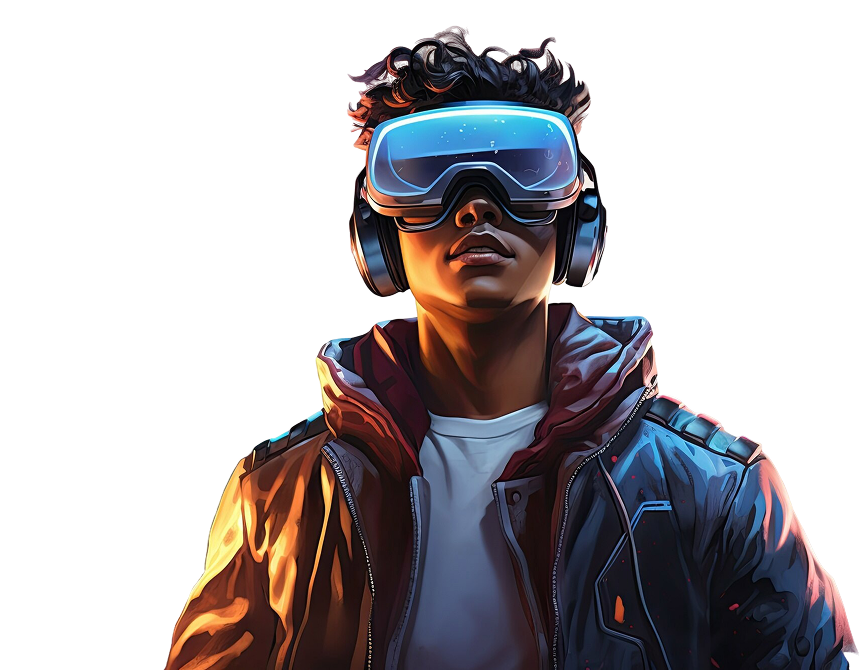
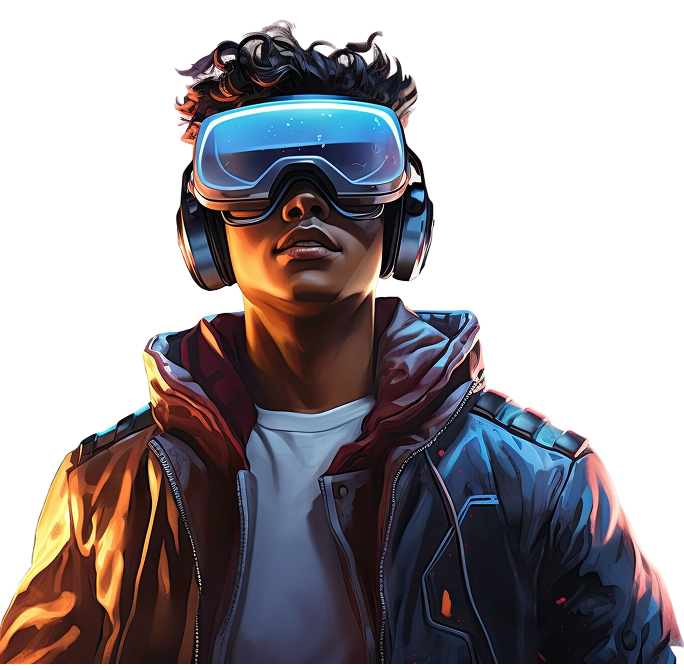
home responsive

diff --git a/src/pages/Hero.jsx b/src/pages/Hero.jsx
@@ -5,35 +5,52 @@ import Logo from "../assets/logo.png";
 import TournamentCard from "../components/TournamentCard";
 import star from "../assets/star.png"; // local star image
 
-
-
-
-
 const Home = () => {
   return (
-    <div className="relative w-full h-full bg-[#0A0F21] overflow-hidden">
+    <div className="relative w-full h-150 lg:h-full bg-[#0A0F21] overflow-hidden">
       {/* Background image */}
-     <div className="absolute top-22 -right-4 w-300 h-159 overflow-hidden">
-       <img
-        src={HeroImage} 
-        alt="Background"
-        className="absolute right-0"
-      />
-     </div>
-     <div className="absolute top-100 right-9 w-300 h-220 overflow-hidden">
-       <img
-        src={Sboy} 
-        alt="Background"
-        className="absolute right-0"
-      />
-     </div>
-     <div className="absolute top-122 right-130 w-300 h-220 overflow-hidden z-50">
-       <img
-        src={Girl} 
-        alt="Background"
-        className="absolute right-0"
-      />
-     </div>
+      {/* HeroImage */}
+      <div
+        className="
+    absolute top-65 left-1/2 -translate-x-1/2 w-[60%] h-30% 
+    sm:top-50
+    lg:top-22 lg:-right-4 lg:left-auto lg:translate-x-0 lg:w-300 lg:h-159 lg:overflow-hidden
+  "
+      >
+        <img
+          src={HeroImage}
+          alt="Background"
+          className="mx-auto sm:mt-10 lg:absolute lg:right-0"
+        />
+      </div>
+
+      {/* Sboy */}
+      <div
+        className="
+    absolute top-82 left-1/4 -translate-x-1/2 w-[60%] h-auto
+    lg:top-100 lg:right-9 lg:left-auto lg:translate-x-0 lg:w-300 lg:h-220
+  "
+      >
+        <img
+          src={Sboy}
+          alt="Background"
+          className="mx-auto scale-60 lg:scale-100 lg:absolute lg:right-0"
+        />
+      </div>
+
+      {/* Girl */}
+      <div
+        className="
+    absolute top-[28rem] left-1/2 -translate-x-1/2 w-[65%] h-auto z-50 
+    lg:top-122 lg:right-130 lg:left-auto lg:translate-x-0 lg:w-300 lg:h-220
+  "
+      >
+        <img
+          src={Girl}
+          alt="Background"
+          className="mx-auto lg:absolute lg:right-0"
+        />
+      </div>
 
       {/* Navbar */}
       <nav className="w-full h-[60px] border-b border-white/30 absolute top-0 left-0 z-50 bg-black/10 backdrop-blur-md m">
@@ -64,9 +81,7 @@ const Home = () => {
           </ul>
 
           {/* Right Button */}
-          <h1
-            className="text-white text-[13px] font-medium uppercase tracking-wider hover:text-yellow-400 transition-colors cursor-pointer"
-          >
+          <h1 className="text-white text-[13px] font-medium uppercase tracking-wider hover:text-yellow-400 transition-colors cursor-pointer">
             CONNECT WALLET
           </h1>
         </div>
@@ -77,11 +92,11 @@ const Home = () => {
       </nav>
 
       {/* Hero Section */}
-      <section className="relative w-full flex items-center justify-between px-16 pt-[120px] pb-32">
+      <section className=" relative w-full flex flex-col lg:flex-row text-center lg:text-left items-center justify-between px-3 lg:px-16 pt-[120px] pb-32">
         {/* Left Content */}
-        <div className="flex flex-col space-y-6 max-w-[600px] z-10">
+        <div className="flex  flex-col space-y-6 max-w-[600px] z-10 ">
           <h1
-            className="font-extrabold  text-[55px] leading-tight tracking-tight"
+            className="font-extrabold   text-[25px]   lg:w-140 lg:text-[55px] leading-tight tracking-tight"
             style={{
               background:
                 "linear-gradient(98deg, #FFF 0.2%, #6375F1 50.7%, #FFF 93.98%)",
@@ -98,23 +113,34 @@ const Home = () => {
             age, every mood, and every level.
           </p>
 
-          <div className="relative top-0">
-          <TournamentCard  />
-        </div>
+          <div className="relative top-0 hidden lg:block">
+            <TournamentCard />
+          </div>
         </div>
 
         {/* Stats Card */}
-        <div className="absolute bg-white rounded-xl shadow-lg px-8 py-6 flex justify-between items-center w-120 z-40 mt-150 right-20">
+        <div
+          className="
+    bg-white rounded-xl shadow-lg px-6 py-4 
+    flex justify-between items-center gap-4
+    w-[80%] h-17  max-w-[600px] mx-auto mt-44
+    lg:absolute lg:h-24 lg:mt-152 lg:right-20 lg:w-120 lg:max-w-none z-40
+  "
+        >
           {/* Unique Style */}
-          <div className="text-center">
-            <h2 className="text-3xl font-extrabold text-black">300+</h2>
-            <p className="text-black font-semibold text-sm">Unique Style</p>
+          <div className="text-center flex-1">
+            <h2 className="text-[5vw] sm:text-[4vw] lg:text-3xl font-extrabold text-black">
+              300+
+            </h2>
+            <p className="text-[2.5vw] sm:text-[2vw] lg:text-sm font-semibold text-black">
+              Unique Style
+            </p>
           </div>
 
           {/* Project Finished (Gradient Number) */}
-          <div className="text-center">
+          <div className="text-center flex-1">
             <h2
-              className="text-3xl font-extrabold"
+              className="text-[5vw] sm:text-[4vw] lg:text-3xl font-extrabold"
               style={{
                 background:
                   "linear-gradient(98deg, #6D28D9 0.2%, #EC4899 93.98%)",
@@ -125,15 +151,22 @@ const Home = () => {
             >
               200+
             </h2>
-            <p className="text-black font-semibold text-sm">Project Finished</p>
+            <p className="text-[2.5vw] sm:text-[2vw] lg:text-sm font-semibold text-black">
+              Project Finished
+            </p>
           </div>
 
           {/* Happy Customer */}
-          <div className="text-center">
-            <h2 className="text-3xl font-extrabold text-black">500+</h2>
-            <p className="text-black font-semibold text-sm">Happy Customer</p>
+          <div className="text-center flex-1">
+            <h2 className="text-[5vw] sm:text-[4vw] lg:text-3xl font-extrabold text-black">
+              500+
+            </h2>
+            <p className="text-[2.5vw] sm:text-[2vw] lg:text-sm font-semibold text-black">
+              Happy Customer
+            </p>
           </div>
         </div>
+
         {/*dimension text*/}
         <div className="absolute z-40 top-141">
           <h1
@@ -147,62 +180,66 @@ const Home = () => {
           </h1>
         </div>
       </section>
-      
-      {/* Animated Marquee Section */}
-<div className="relative w-full overflow-hidden -mt-5">
-  <div
-    style={{
-      display: "flex",
-      gap: "8rem",
-      whiteSpace: "nowrap",
-      animation: "marquee 11s linear infinite",
-    }}
-  >
-    {[...Array(2)].map((_, duplicate) => (
-      // Duplicate for seamless loop
-      ["Gaming Spanning", "Action-Packed", "Mind-Bending", "Collection of Games"].map(
-        (text, idx) => (
-          <div
-            key={`${text}-${idx}-${duplicate}`}
-            style={{ display: "flex", alignItems: "center", gap: "0.5rem" }}
-          >
-            <img
-              src={star} // your imported star.png
-              alt="star"
-              style={{ width: "2.5rem", height: "2.5rem", objectFit: "contain" }}
-            />
-            <span
-              style={{
-                color: "white",
-                fontWeight: 900,
-                fontSize: "2rem",
-                letterSpacing: "0.05em",
-                textTransform: "uppercase",
-                fontFamily: "Orbitron, sans-serif",
-              }}
-            >
-              {text}
-            </span>
-          </div>
-        )
-      )
-    ))}
-  </div>
 
-  <style>
-    {`
+      {/* Animated Marquee Section */}
+      <div className="relative w-full overflow-hidden -mt-5">
+        <div
+          style={{
+            display: "flex",
+            gap: "8rem",
+            whiteSpace: "nowrap",
+            animation: "marquee 11s linear infinite",
+          }}
+        >
+          {[...Array(2)].map((_, duplicate) =>
+            // Duplicate for seamless loop
+            [
+              "Gaming Spanning",
+              "Action-Packed",
+              "Mind-Bending",
+              "Collection of Games",
+            ].map((text, idx) => (
+              <div
+                key={`${text}-${idx}-${duplicate}`}
+                style={{ display: "flex", alignItems: "center", gap: "0.5rem" }}
+              >
+                <img
+                  src={star} // your imported star.png
+                  alt="star"
+                  style={{
+                    width: "2.5rem",
+                    height: "2.5rem",
+                    objectFit: "contain",
+                  }}
+                />
+                <span
+                  style={{
+                    color: "white",
+                    fontWeight: 900,
+                    fontSize: "2rem",
+                    letterSpacing: "0.05em",
+                    textTransform: "uppercase",
+                    fontFamily: "Orbitron, sans-serif",
+                  }}
+                >
+                  {text}
+                </span>
+              </div>
+            ))
+          )}
+        </div>
+
+        <style>
+          {`
       @keyframes marquee {
         0% { transform: translateX(0%); }
         100% { transform: translateX(-50%); }
       }
     `}
-  </style>
-</div>
-
-
+        </style>
+      </div>
     </div>
   );
 };
 
 export default Home;
-    

diff --git a/src/pages/Featured.jsx b/src/pages/Featured.jsx
@@ -105,13 +105,13 @@ const Featured = () => {
                 alt={game.title}
                 className={`w-full h-full object-cover rounded-xl ${
                   i === 2
-                    ? "border-4 border-pink-500/20 shadow-[0_0_40px_15px_rgba(255,0,168,0.6)]"
+                    ? "border border-white/30"
                     : "shadow-lg"
                 } transition-all duration-700`}
                 style={{
                   filter:
                     i === 2
-                      ? "drop-shadow(0 0 5px rgba(255,0,168,0.8))"
+                      ? "drop-shadow(0 0 5px rgba(255, 255, 255, 0.8))"
                       : "none",
                 }}
               />
